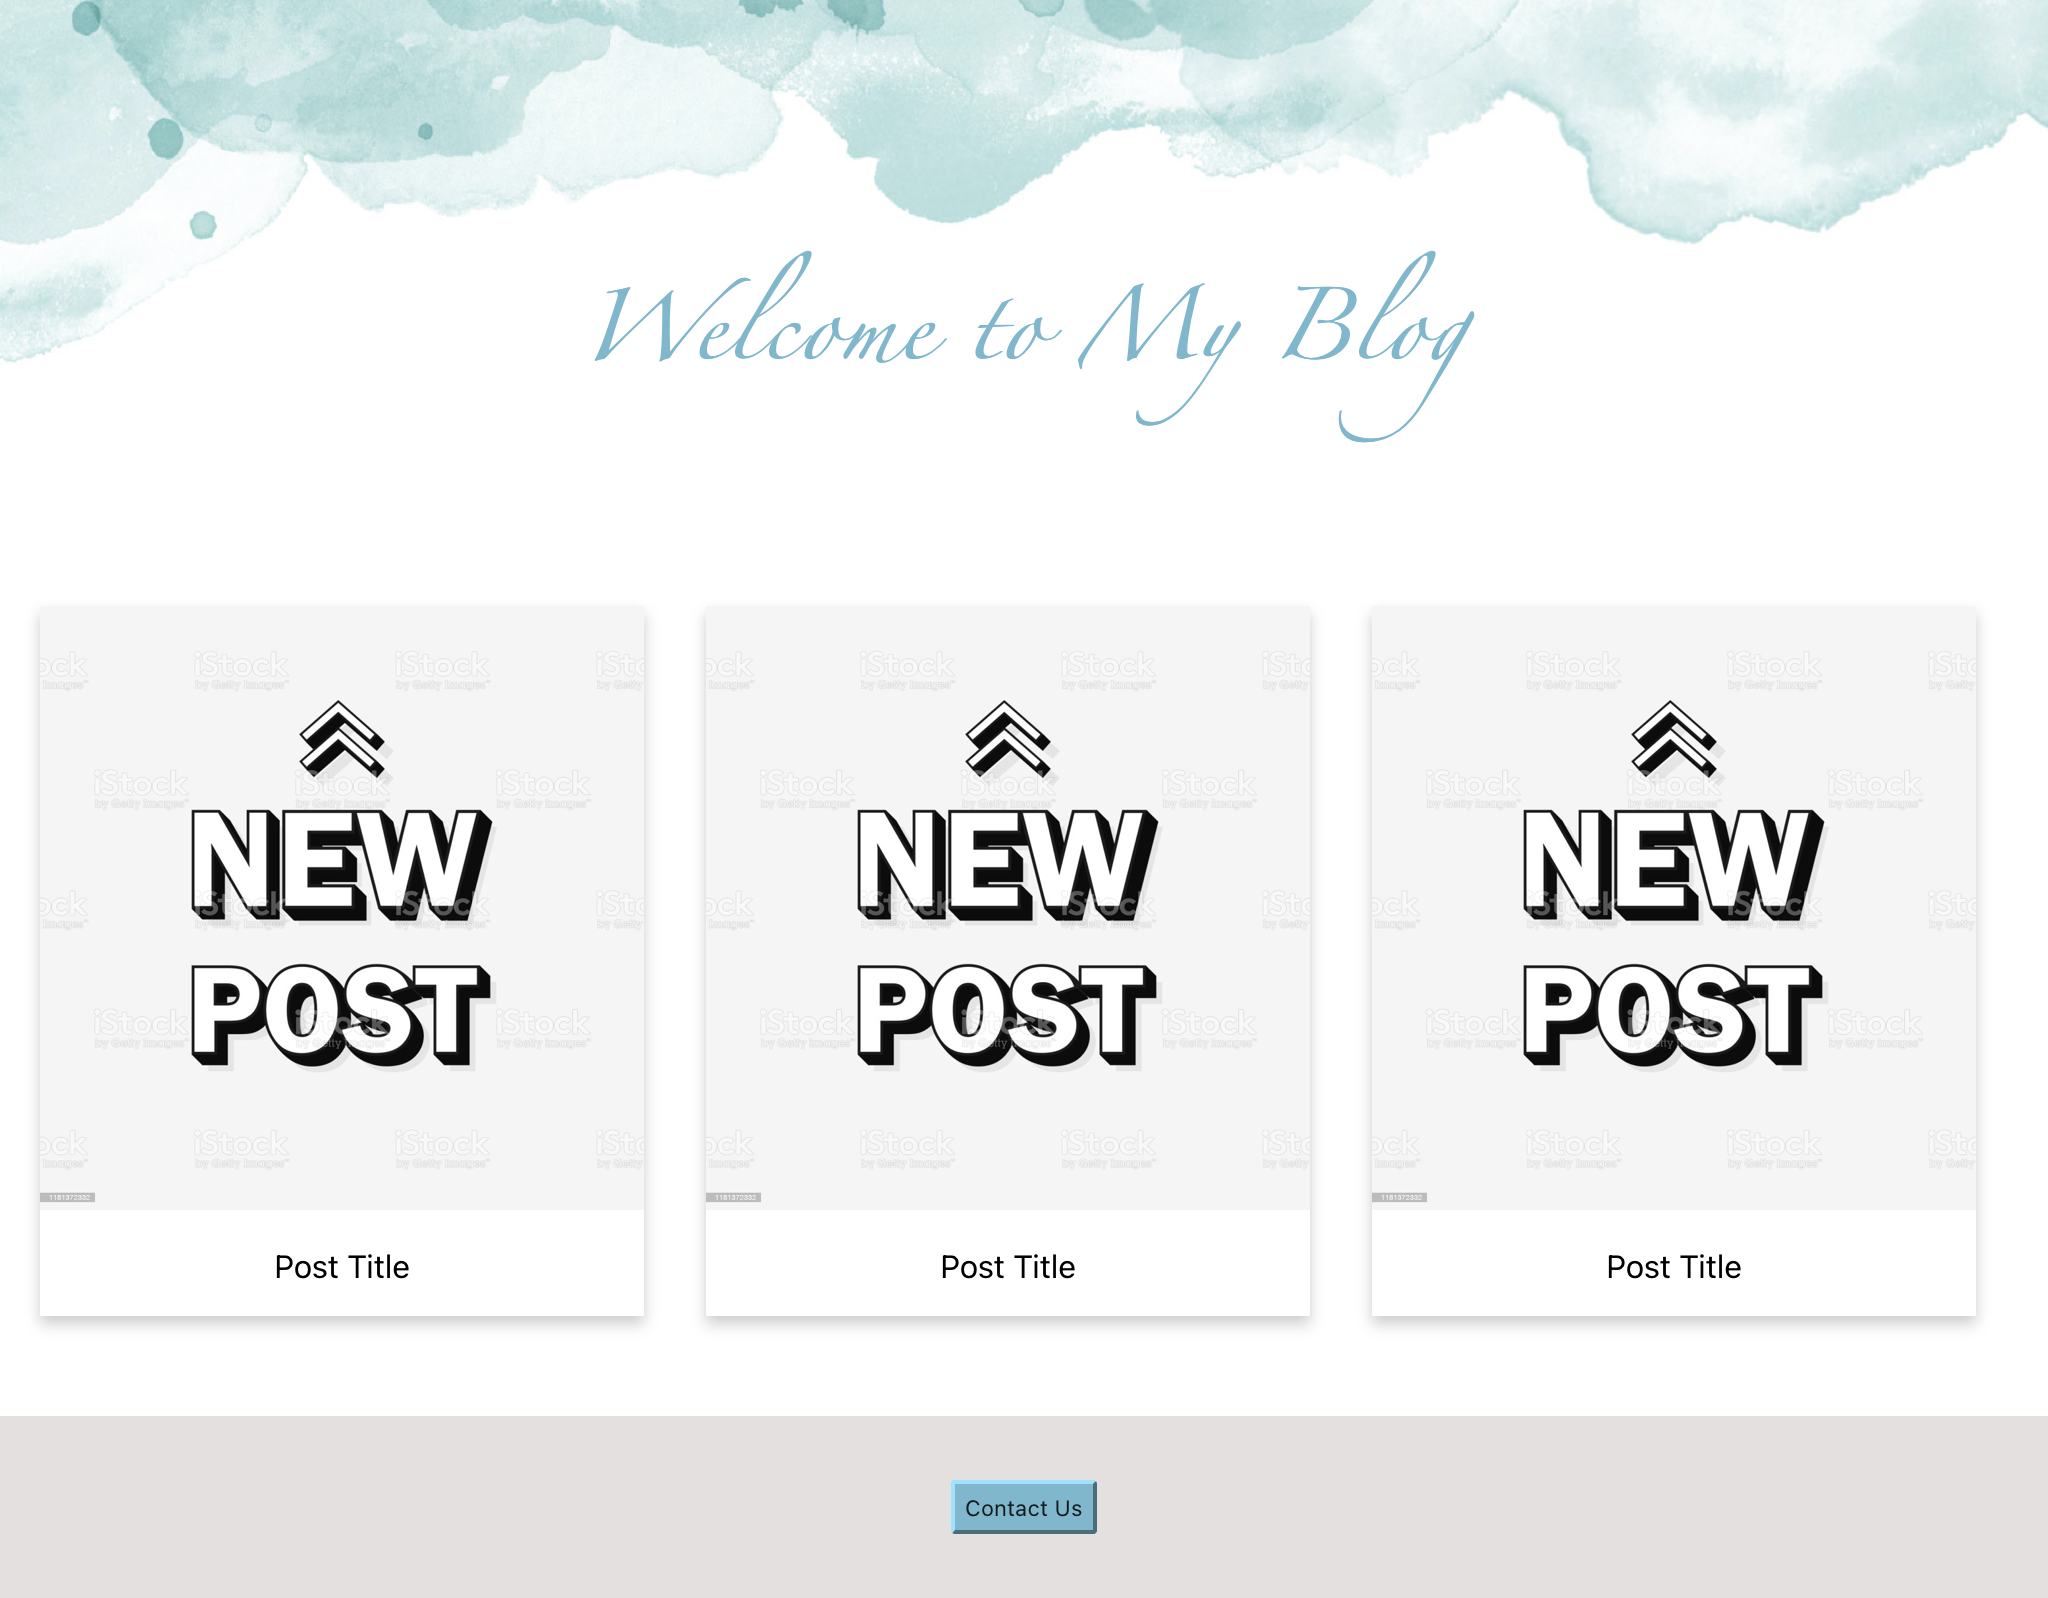
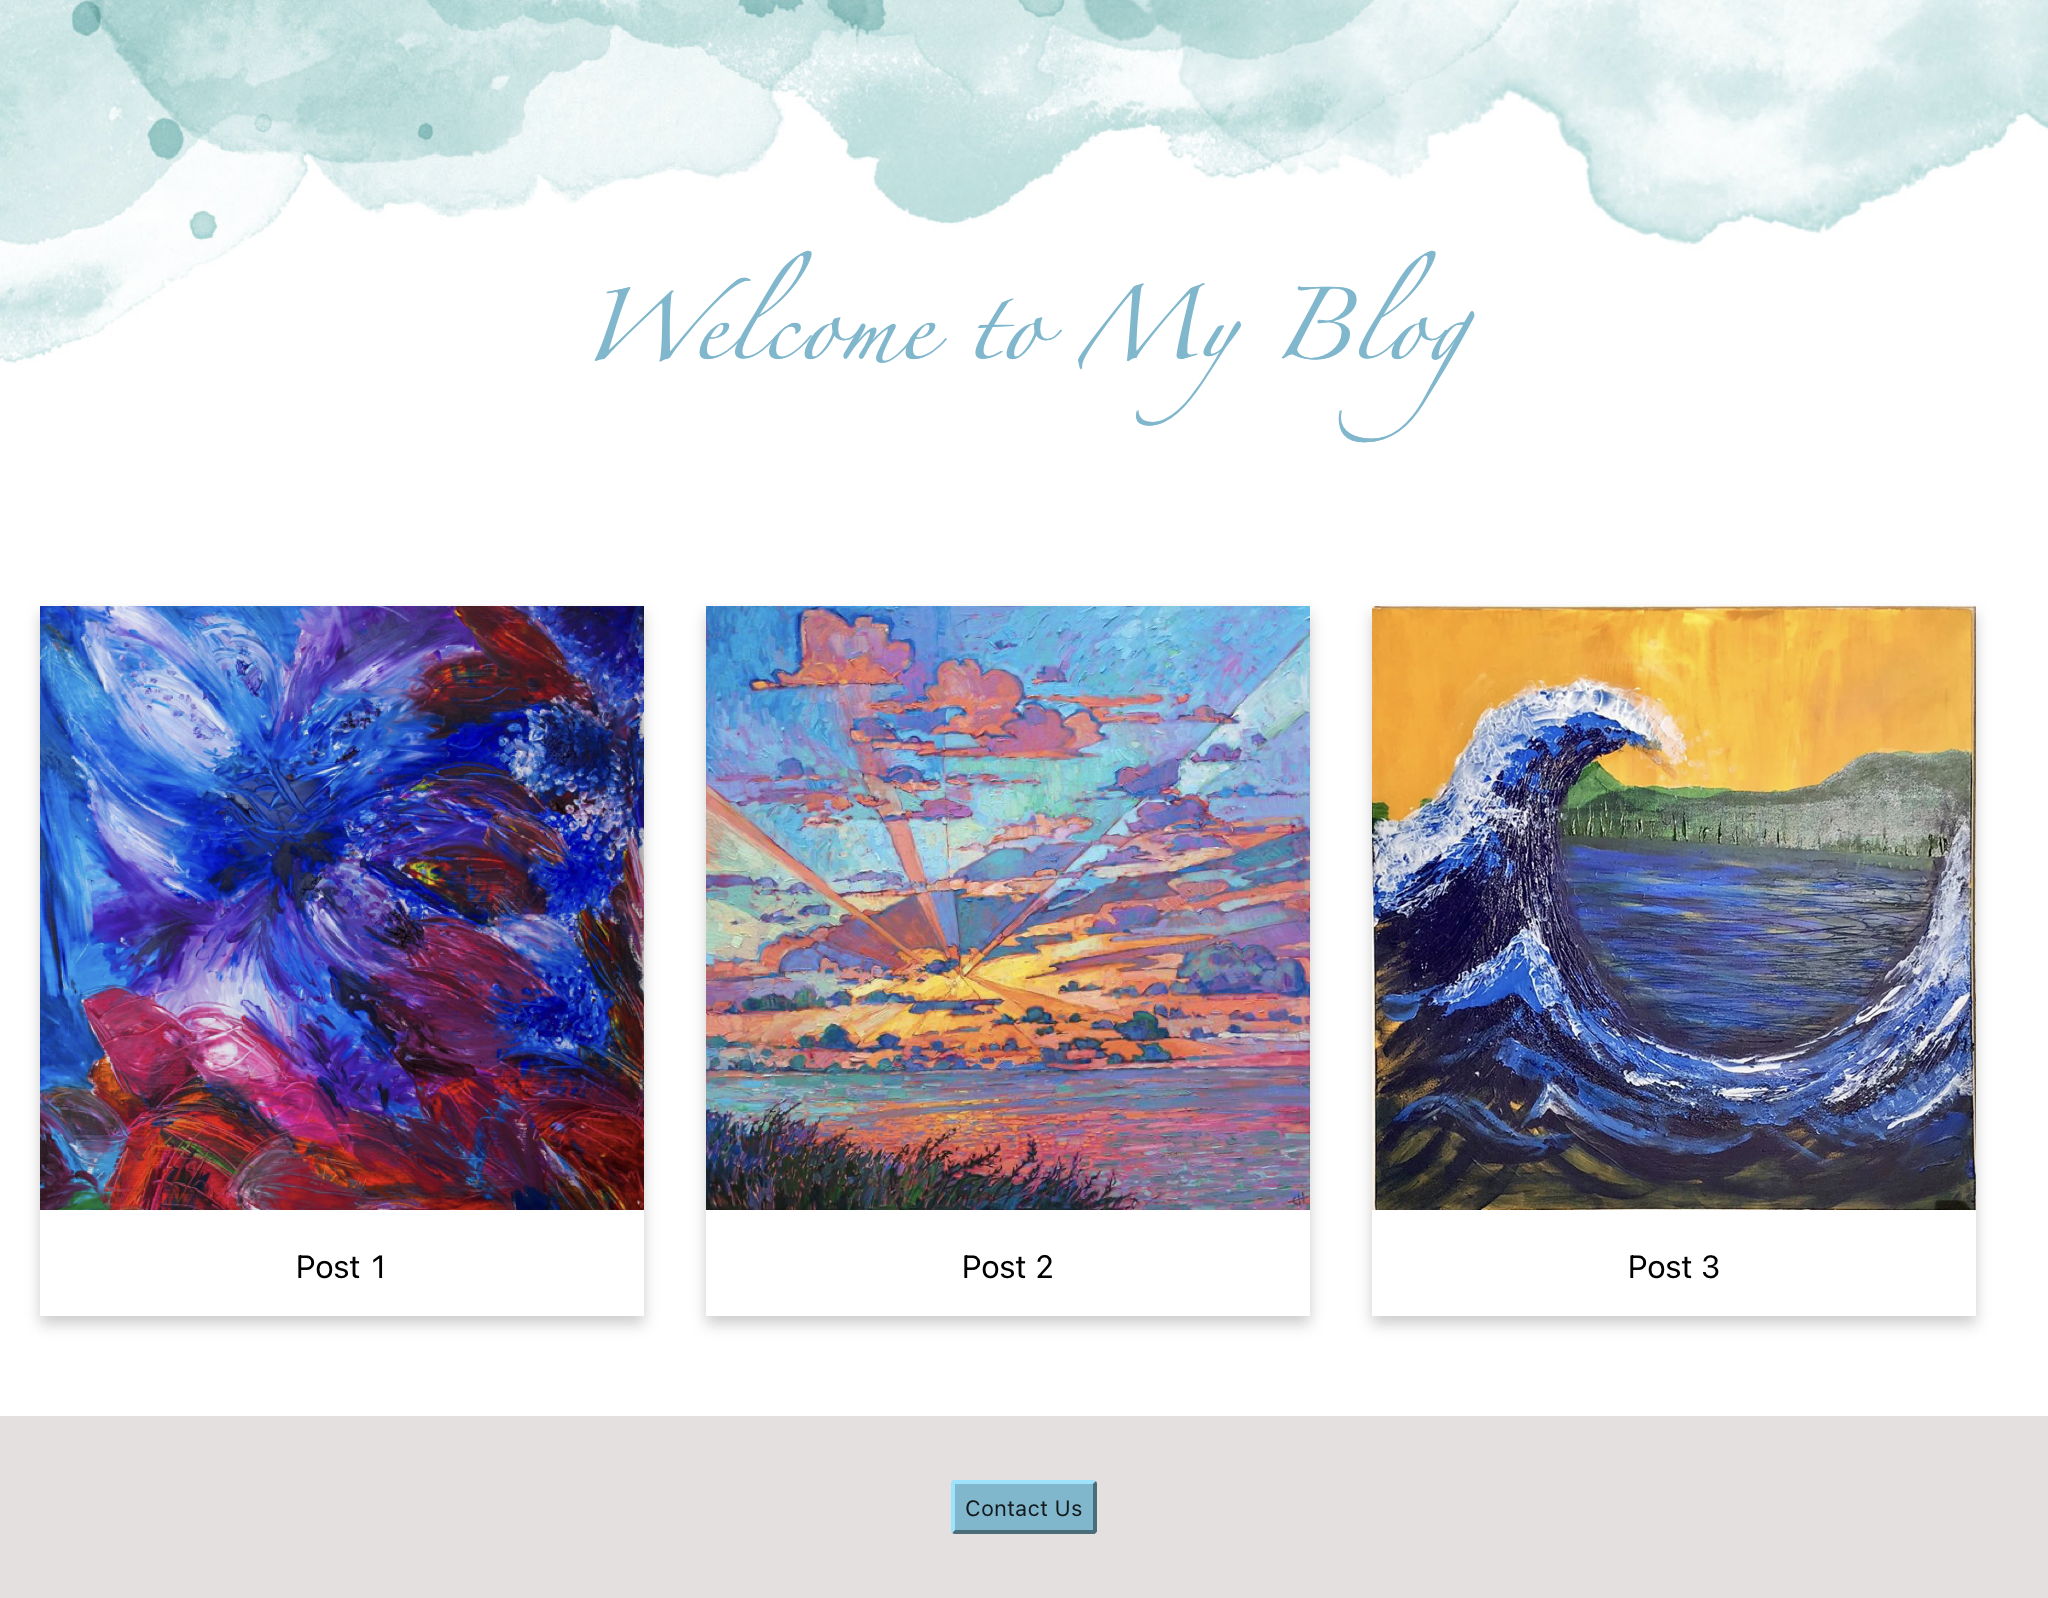
added

diff --git a/README.md b/README.md
@@ -1,11 +1,9 @@
 # React Components Lab
-
 Create a personal blog website using React components similar to the below image. Your website should contains at least three components:
-
 - Header
 - Post
 - Footer
-
 The Post component will represent one post only, and more posts could be added using the same component.
-
-![image](React_App.png) 
+</br>
+<i>Hint: use props to be able to change the content of the posts.<i>
+![image](React_App.png)
